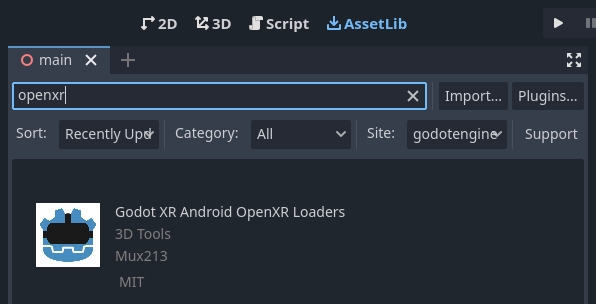
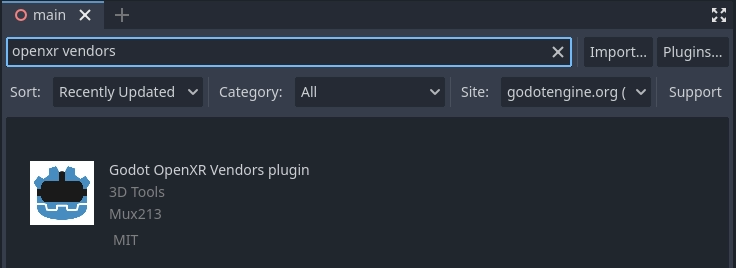
Corrected a few things in the openxr android documentation

Changed region(s): [[0.0, 0.0, 0.9966, 1.0], [0.906, 0.0299, 1.0, 0.1194], [0.2114, 0.1791, 0.2416, 0.209]]

diff --git a/tutorials/xr/deploying_to_android.rst b/tutorials/xr/deploying_to_android.rst
@@ -39,9 +39,8 @@ Installing the vendors plugin
 .. warning::
     The Android plugin structure has been restructured in Godot 4.2, and the loader plugin was renamed to vendors plugin as it now includes more than just loaders.
     If you've previously installed the loader plugin you need to delete it from the `android/plugins` folder.
-    The loader plugin available in the asset library is still the old one, it will be updated to the new vendor plugin after 4.2 is released.
 
-The vendors plugin can be downloaded from the asset library, search for OpenXR and install the plugin:
+The vendors plugin can be downloaded from the asset library, search for "OpenXR vendors" and install the plugin:
 
 .. image:: img/openxr_loader_asset_lib.webp
 
@@ -49,7 +48,7 @@ You will find the installed files inside the **addons** folder.
 
 Alternatively you can manually install the vendors plugin by downloading the v2.x version of the plugin `from the release page here <https://github.com/GodotVR/godot_openxr_vendors/releases>`__.
 
-You will need to copy the `assets/addons/godotopenxrvendors` folder from the zip file into your projects `assets/addons` folder.
+You will need to copy the `assets/addons/godotopenxrvendors` folder from the zip file into your projects `addons` folder.
 
 You can find the main repository of the vendors plugin `here <https://github.com/GodotVR/godot_openxr_vendors>`__.
 
@@ -94,9 +93,7 @@ Now you can repeat the same process for the other devices.
 
 .. warning::
     While the Mobile Vulkan renderer has many optimizations targeted at mobile devices, we're still working out the kinks.
-    It is highly advisable to use the OpenGL renderer for the time being when targeting Android based XR devices.
-
-    Note that we are awaiting driver updates on various devices before Vulkan support will work on these.
+    It is highly advisable to use the compatibility renderer (OpenGL) for the time being when targeting Android based XR devices.
 
 Running on your device from the Godot editor
 --------------------------------------------
